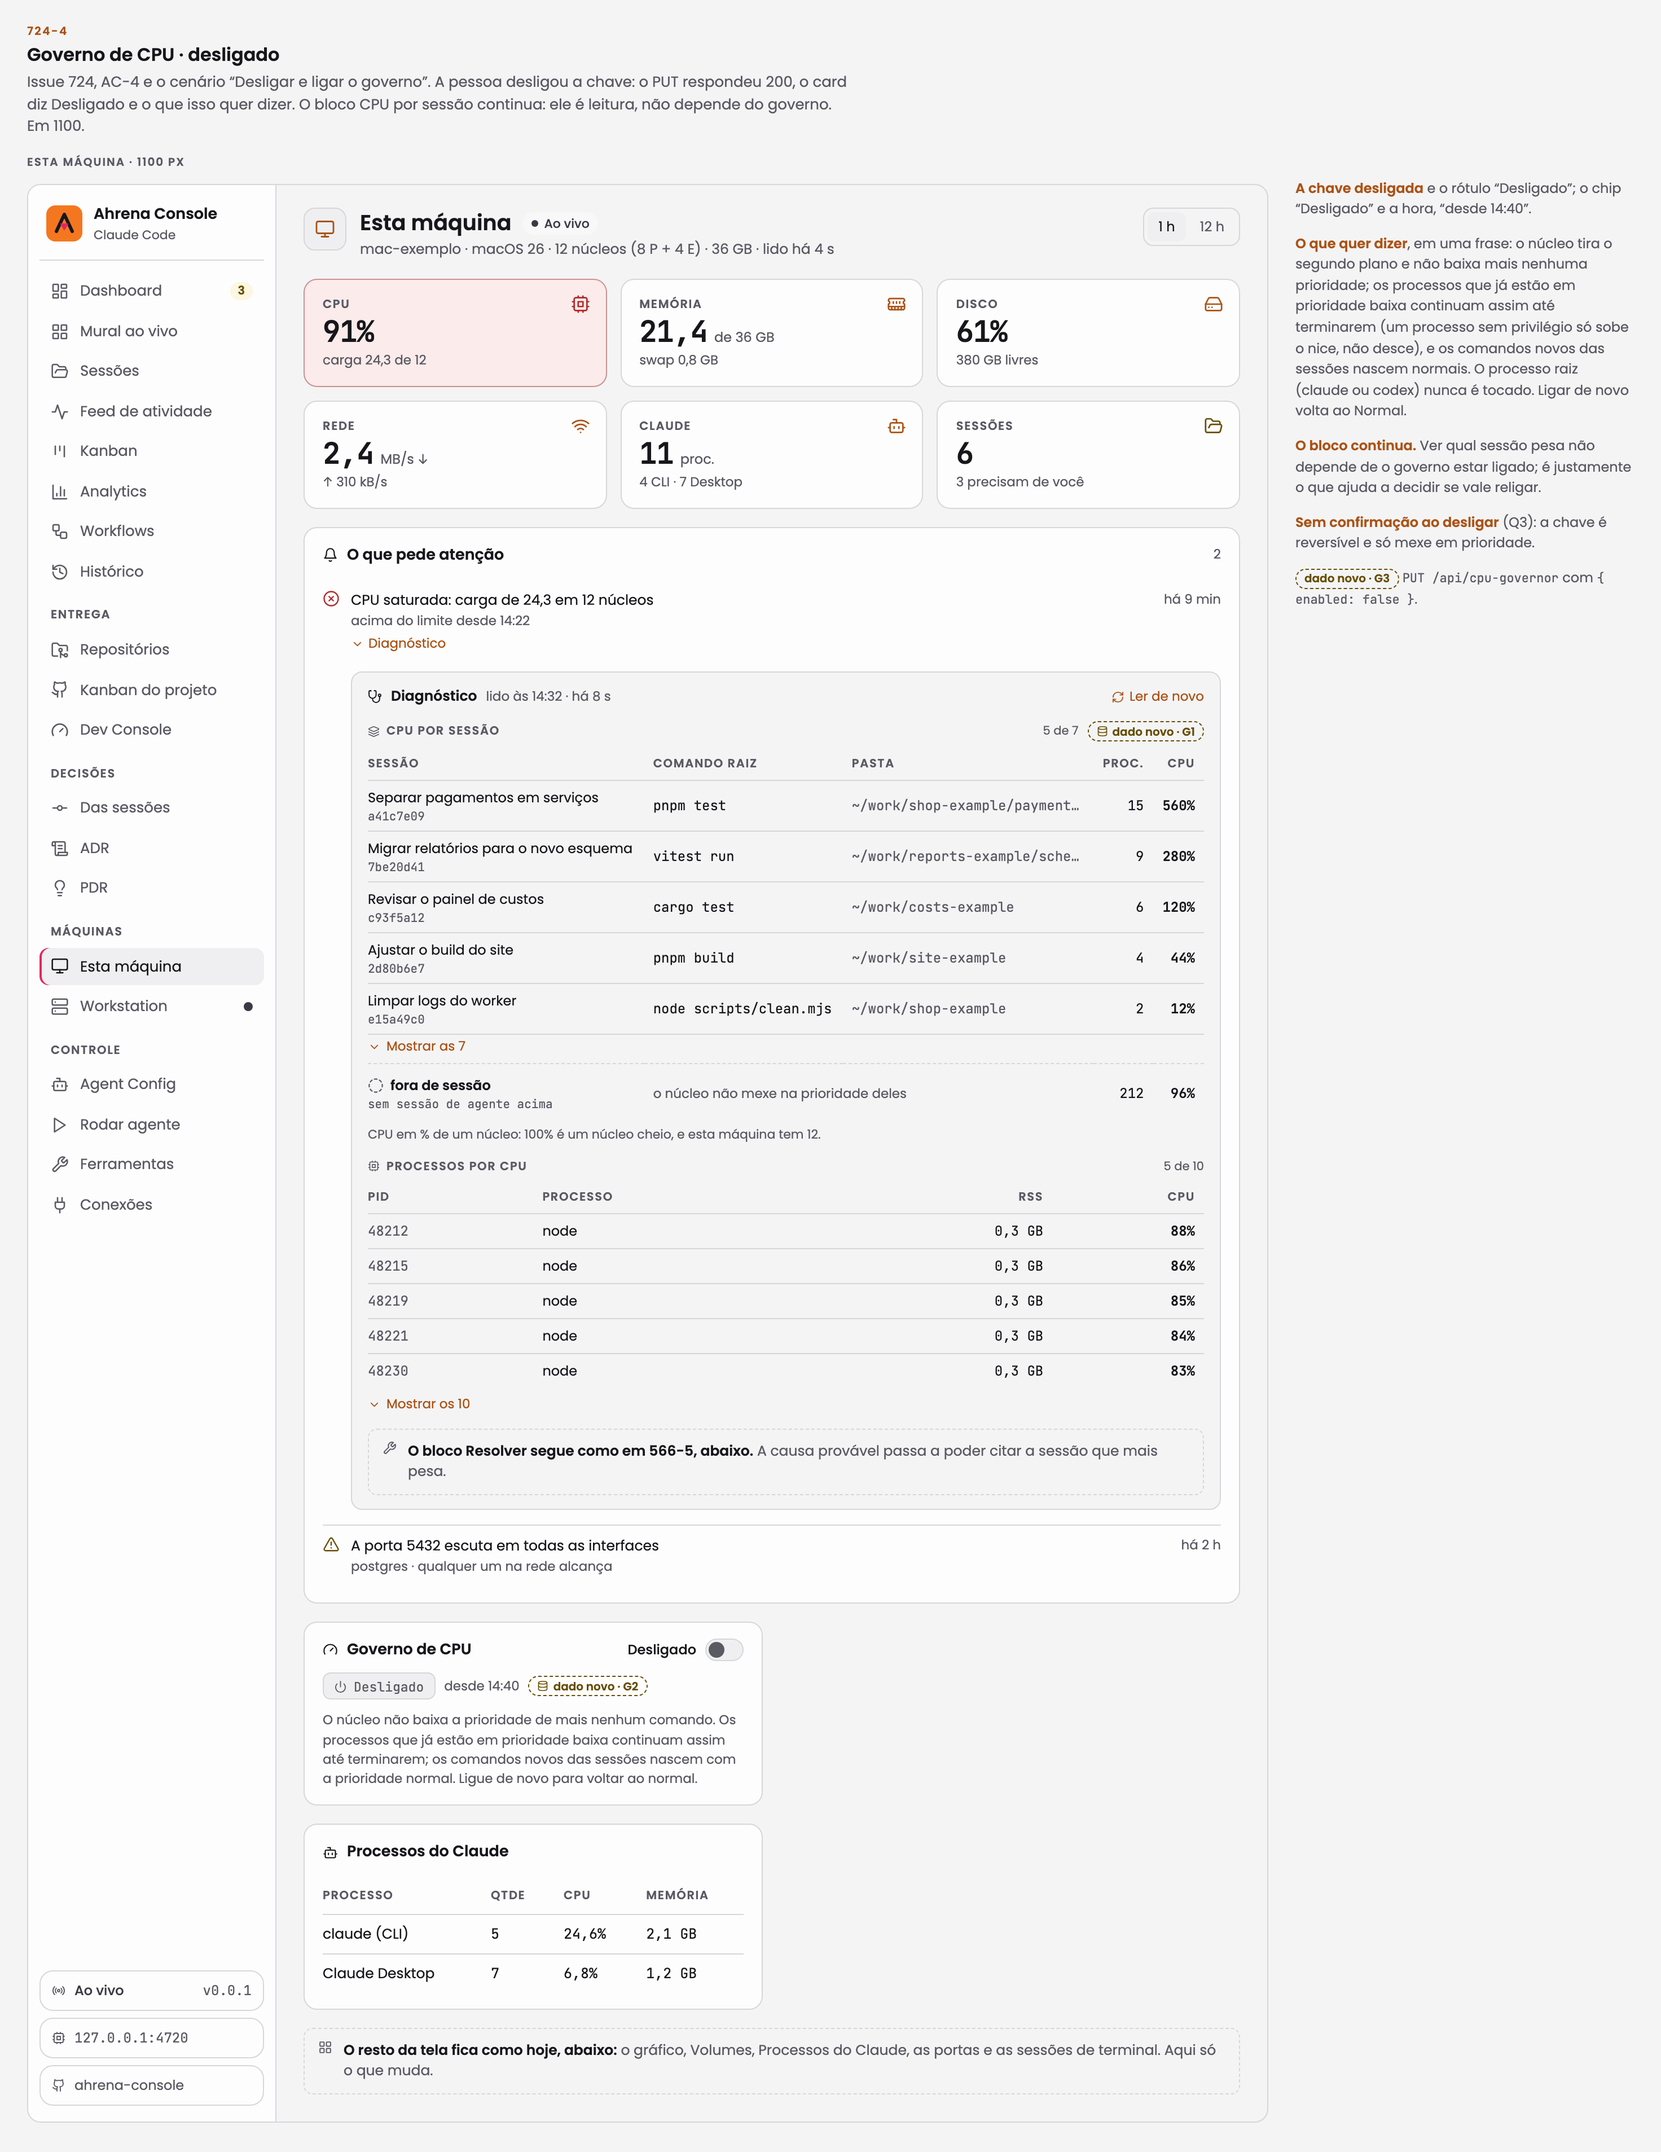
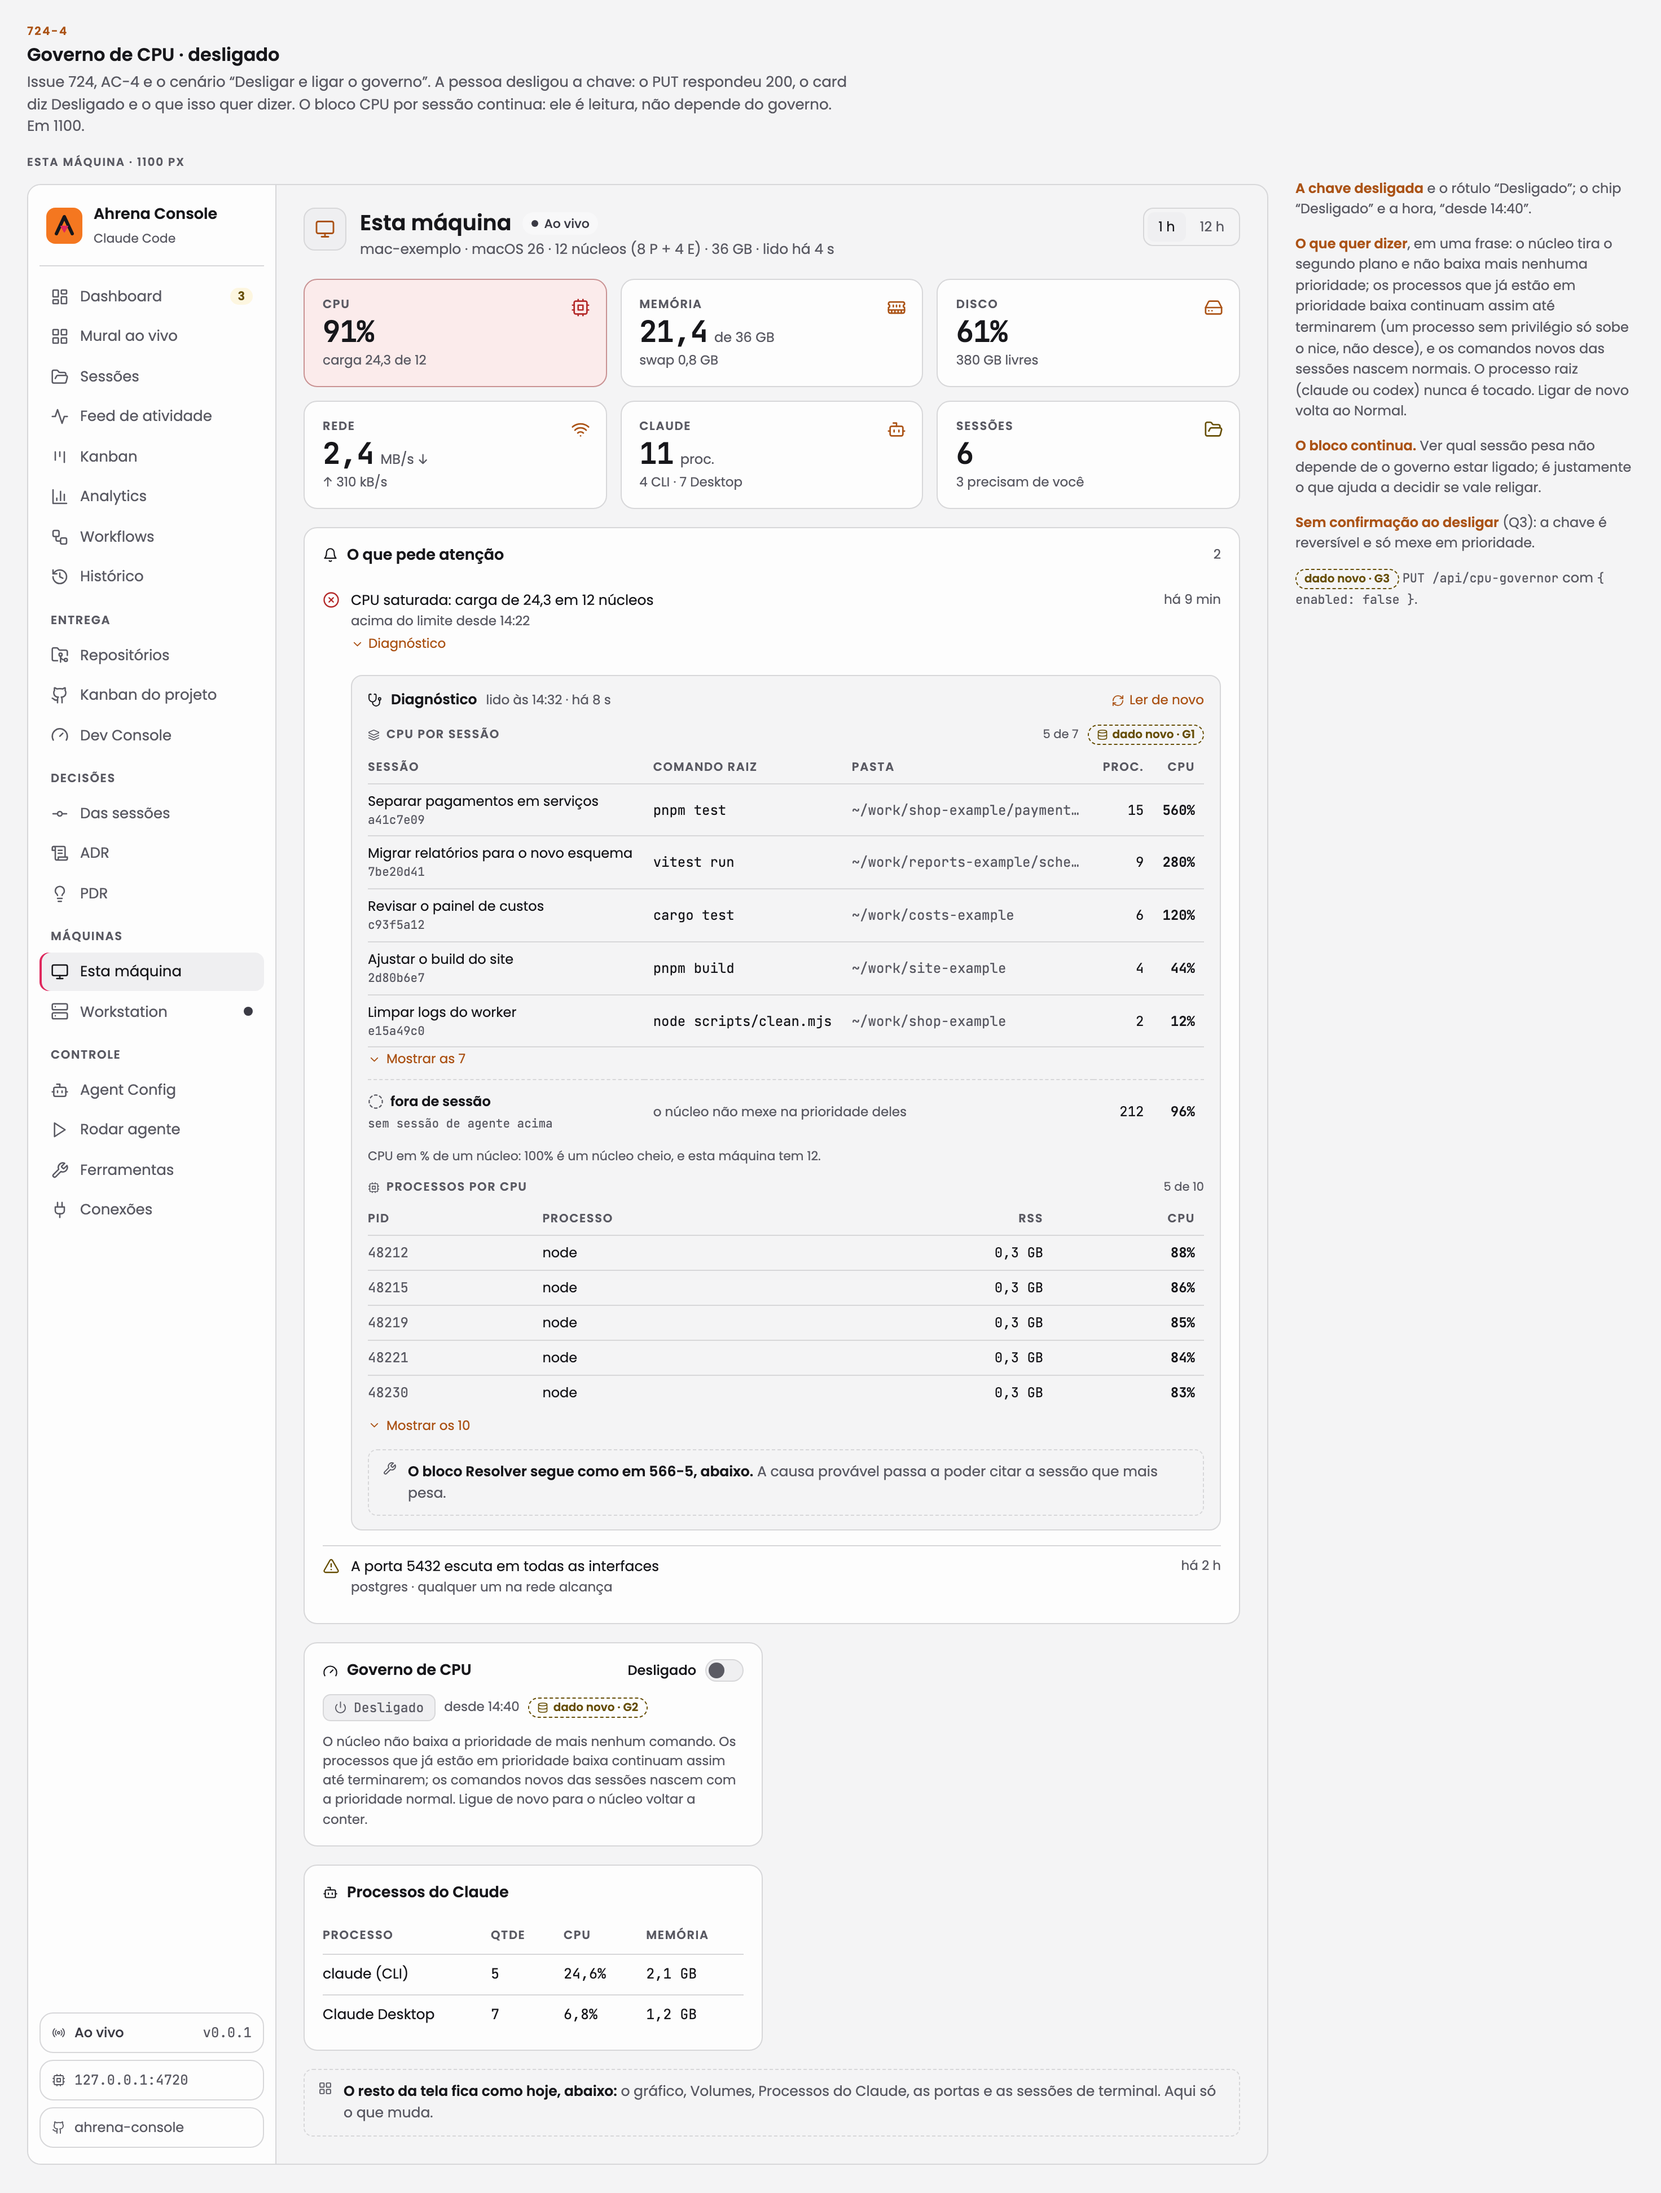
docs(wireframes): governor off card says the core resumes containing when turned on again (#724)
Copy fix: "Ligue de novo para o núcleo voltar a conter." replaces
"Ligue de novo para voltar ao normal." in the off card (724-4) and in the
failed-to-turn-on state (724-5), which renders the same card. Captures of
both regenerated, dark and light.

diff --git a/docs/wireframes/index.html b/docs/wireframes/index.html
@@ -8021,7 +8021,7 @@ const cgBodyContaining = (n = {}) => `<div class="cg-mode warn" data-part="mode"
   <div class="cg-sub">desde 14:21 (há 11 min) · a carga de 1 min passou dos 12 núcleos por mais de 30 s</div>
   <div class="cg-list" data-part="contained">${CG_SESSIONS_CONT.filter(s => s.contained).map(s => `<div data-session="${s.id}"><b style="font-weight:500">${s.title}</b><span class="mono c-muted">${s.root}</span><span class="t">desde ${s.contained}</span></div>`).join('')}</div>
   <div class="cg-sub">Elas passam para os núcleos de eficiência do Mac e voltam sozinhas quando a carga ficar abaixo de 80% dos núcleos por 2 min. As outras 3 seguem só com prioridade baixa.</div>`
-const cgBodyOff = (n = {}) => `<div class="cg-mode" data-part="mode">${n.mode ?? ''}${cgChip('power', 'Desligado')}<span class="cg-sub">desde 14:40</span>${cgDepGov()}</div><div class="cg-sub">O núcleo não baixa a prioridade de mais nenhum comando. Os processos que já estão em prioridade baixa continuam assim até terminarem; os comandos novos das sessões nascem com a prioridade normal. Ligue de novo para voltar ao normal.</div>`
+const cgBodyOff = (n = {}) => `<div class="cg-mode" data-part="mode">${n.mode ?? ''}${cgChip('power', 'Desligado')}<span class="cg-sub">desde 14:40</span>${cgDepGov()}</div><div class="cg-sub">O núcleo não baixa a prioridade de mais nenhum comando. Os processos que já estão em prioridade baixa continuam assim até terminarem; os comandos novos das sessões nascem com a prioridade normal. Ligue de novo para o núcleo voltar a conter.</div>`
 const cgCard = (state, { n = {}, extra = '' } = {}) => {
   const [sw, body] = {
     normal: [cgSw(true), cgBodyNormal(n)],
